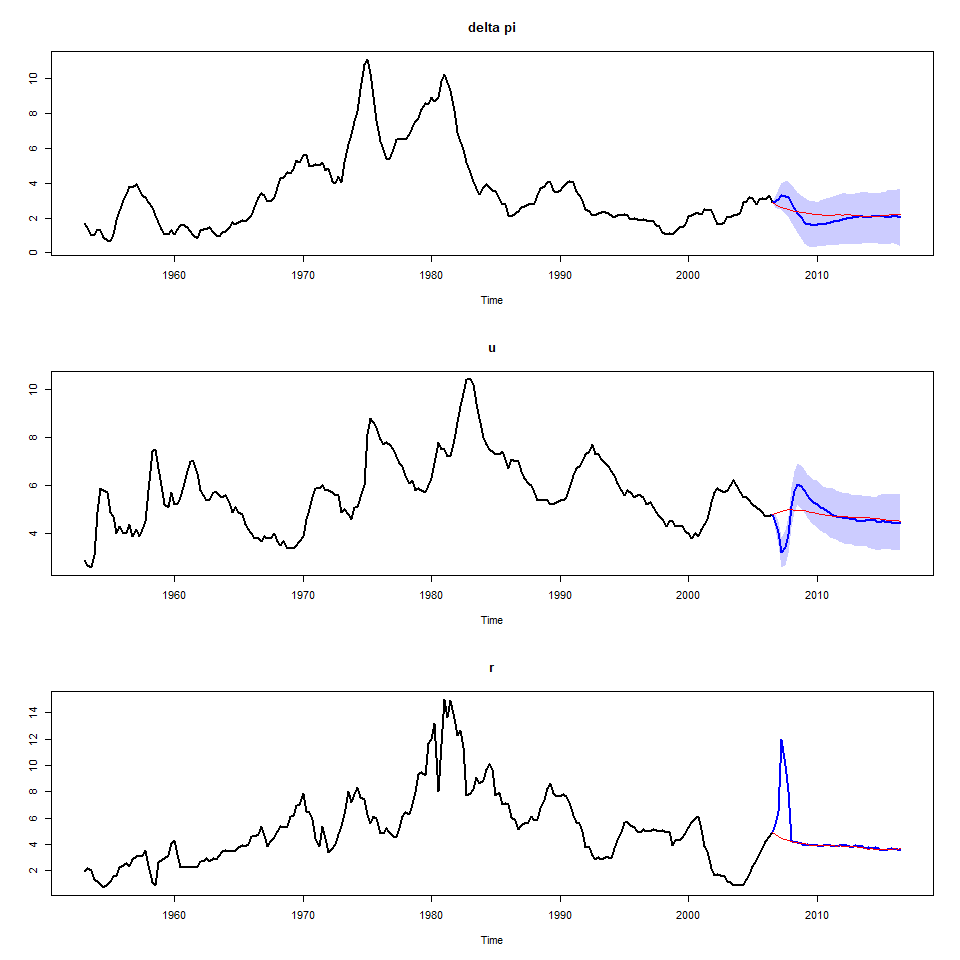
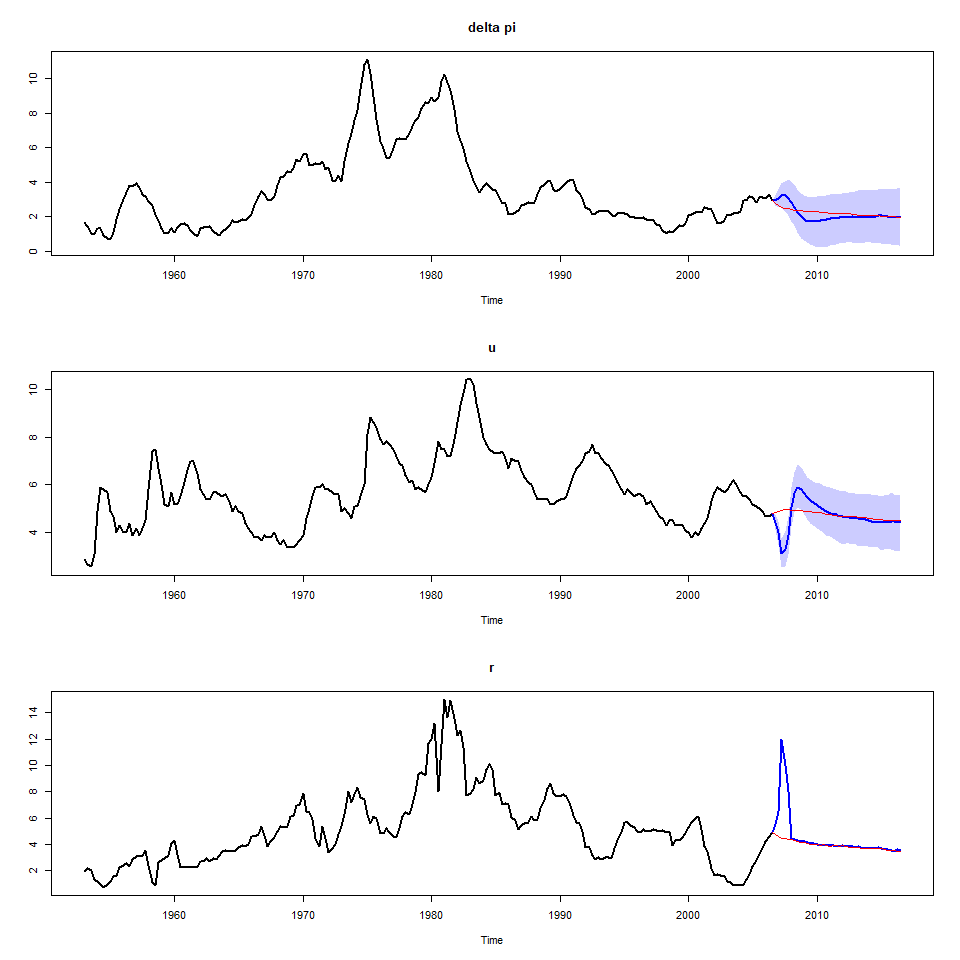
kdsoad

diff --git a/README.md b/README.md
@@ -147,15 +147,17 @@ variables, which are set to $\kappa$.
 
 If variable $i$ is in level (e.g. nominal interest rate), then
 $\kappa=\kappa^{level}$, and typical choices for $\kappa^{level}$ are
-$1$ or $0.9$. Evaluating the VAR at its priors means, each equation
-becomes an univariate random walk if $\kappa^{level}=1$ and a stationary
-but persistent AR process if $\kappa^{levels}=0.9$. Since the steady
+$1$ or $0.9$. Evaluating the equations at their priors means, equation
+$i$ becomes a random walk if $\kappa^{level}=1$ and a persistent
+stationary AR(1) process if $\kappa^{levels}=0.9$. Since the steady
 state only exists if the process is stationary, $0.9$ is recommended for
 the steady-state BVAR. If variable $i$ is in difference (e.g. output
 growth), then $\kappa=\kappa^{\Delta}$, and the most common choice for
-$\kappa^{\Delta}$ are $0$. If a differenced variable still shows some
-degree of persistence (can be examined with an ACF plot), a suitable
-value for $\kappa^{\Delta}$ can be (for example) $0.6$ instead of $0$.
+$\kappa^{\Delta}$ are $0$, i.e. equation $i$ becomes (when evaluating it
+at its prior means) a random walk expressed in first differences. If a
+differenced variable still shows some degree of persistence (can be
+examined with an ACF plot), a suitable value for $\kappa^{\Delta}$ can
+be (for example) $0.6$ instead of $0$.
 
 Moving on to the prior variances, $\Omega_\beta$ is a diagonal matrix
 containing the prior variances for the elements in $\beta$. They are
@@ -777,30 +779,30 @@ Lets check posterior means
 summary(bvar_obj)
 #> beta posterior mean
 #>        [,1]  [,2]  [,3]
-#>  [1,]  1.39  0.04  0.28
-#>  [2,] -0.12  1.22 -0.32
-#>  [3,] -0.01 -0.02  0.83
-#>  [4,] -0.28 -0.03 -0.10
-#>  [5,]  0.04 -0.22  0.17
+#>  [1,]  1.39  0.04  0.29
+#>  [2,] -0.12  1.22 -0.33
+#>  [3,] -0.01 -0.02  0.82
+#>  [4,] -0.28 -0.02 -0.11
+#>  [5,]  0.03 -0.21  0.18
 #>  [6,]  0.01  0.01 -0.05
-#>  [7,] -0.11  0.00  0.01
-#>  [8,]  0.04 -0.15  0.06
+#>  [7,] -0.12  0.00  0.01
+#>  [8,]  0.04 -0.15  0.07
 #>  [9,]  0.00  0.03  0.14
-#> [10,] -0.01  0.01 -0.09
+#> [10,]  0.00  0.01 -0.09
 #> [11,]  0.04  0.06  0.11
 #> [12,]  0.00  0.01 -0.01
 #> 
 #> Psi posterior mean
 #>      [,1]
-#> [1,] 1.99
-#> [2,] 4.29
-#> [3,] 3.22
+#> [1,] 2.00
+#> [2,] 4.28
+#> [3,] 3.21
 #> 
 #> Sigma posterior mean
 #>      [,1]  [,2]  [,3]
 #> [1,] 0.10  0.00  0.04
 #> [2,] 0.00  0.11 -0.10
-#> [3,] 0.04 -0.10  0.59
+#> [3,] 0.04 -0.10  0.60
 ```
 
 Now lets forecast with a 68% CI and use the median of the predictive
